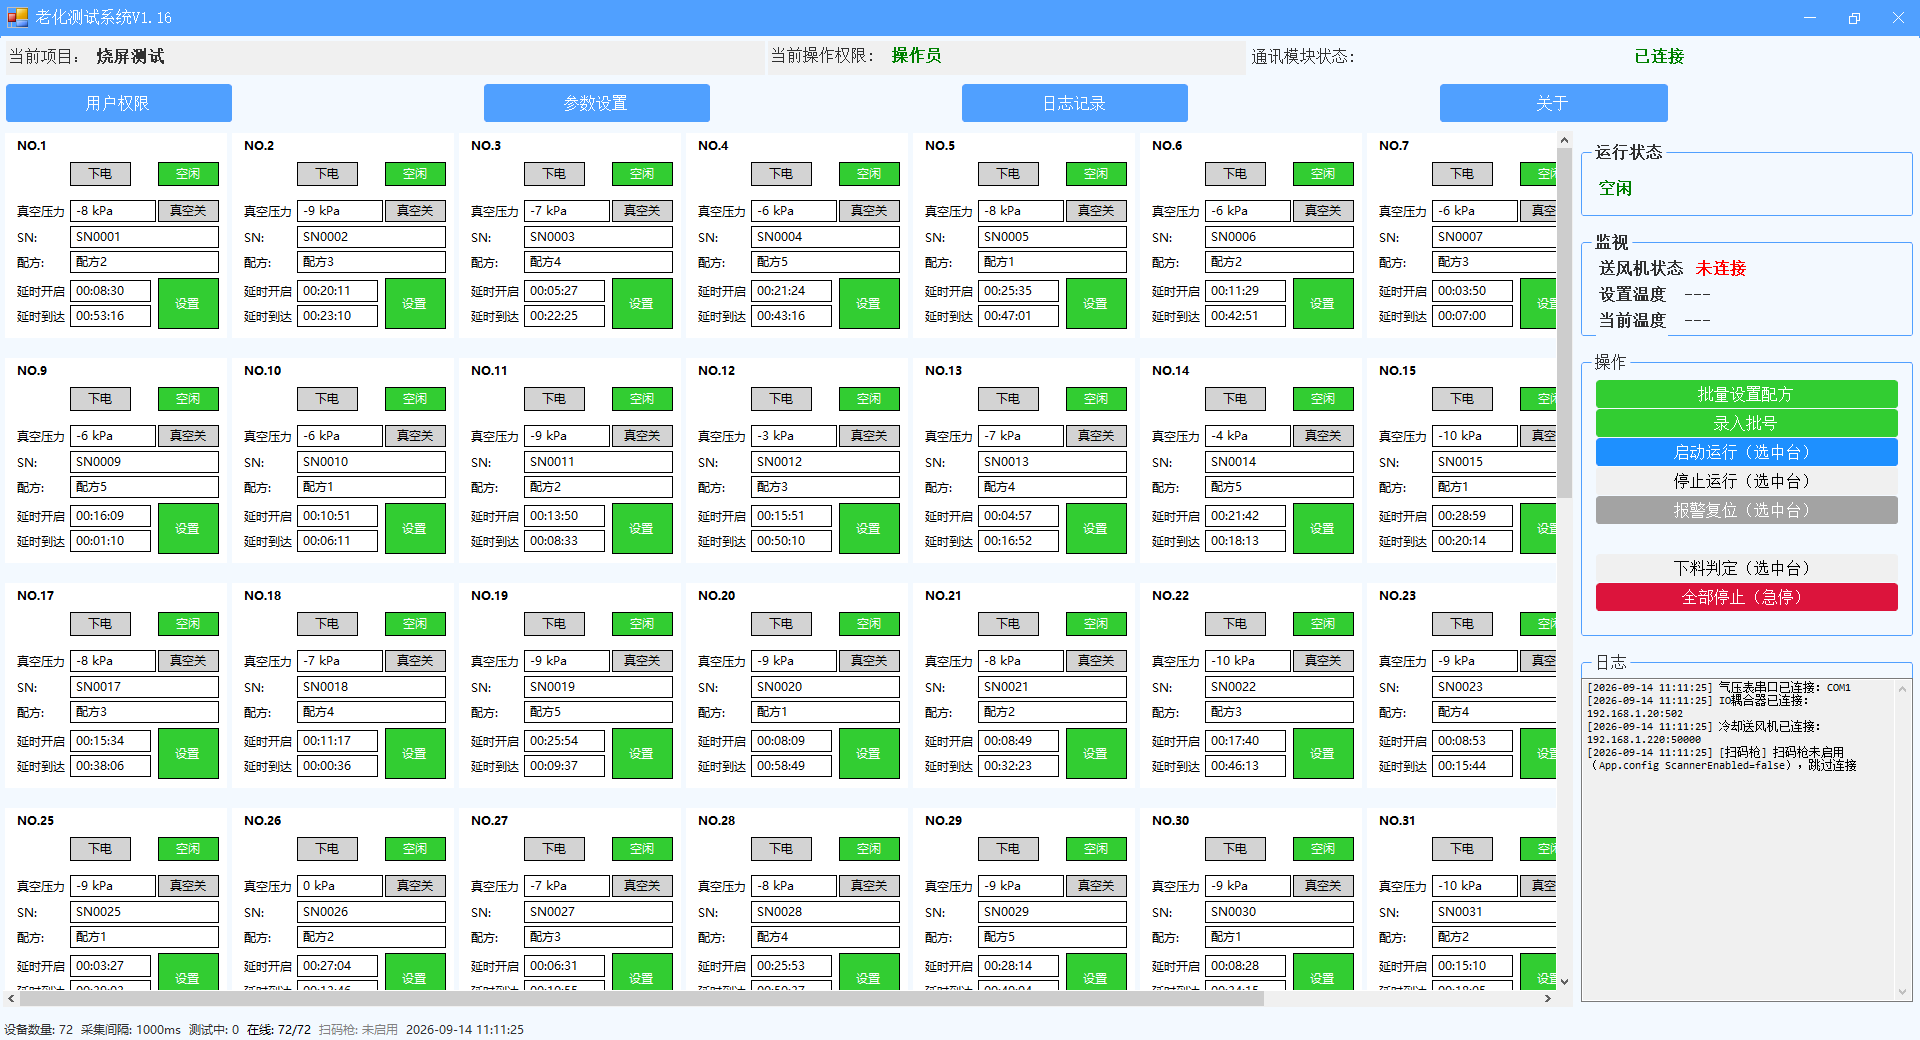
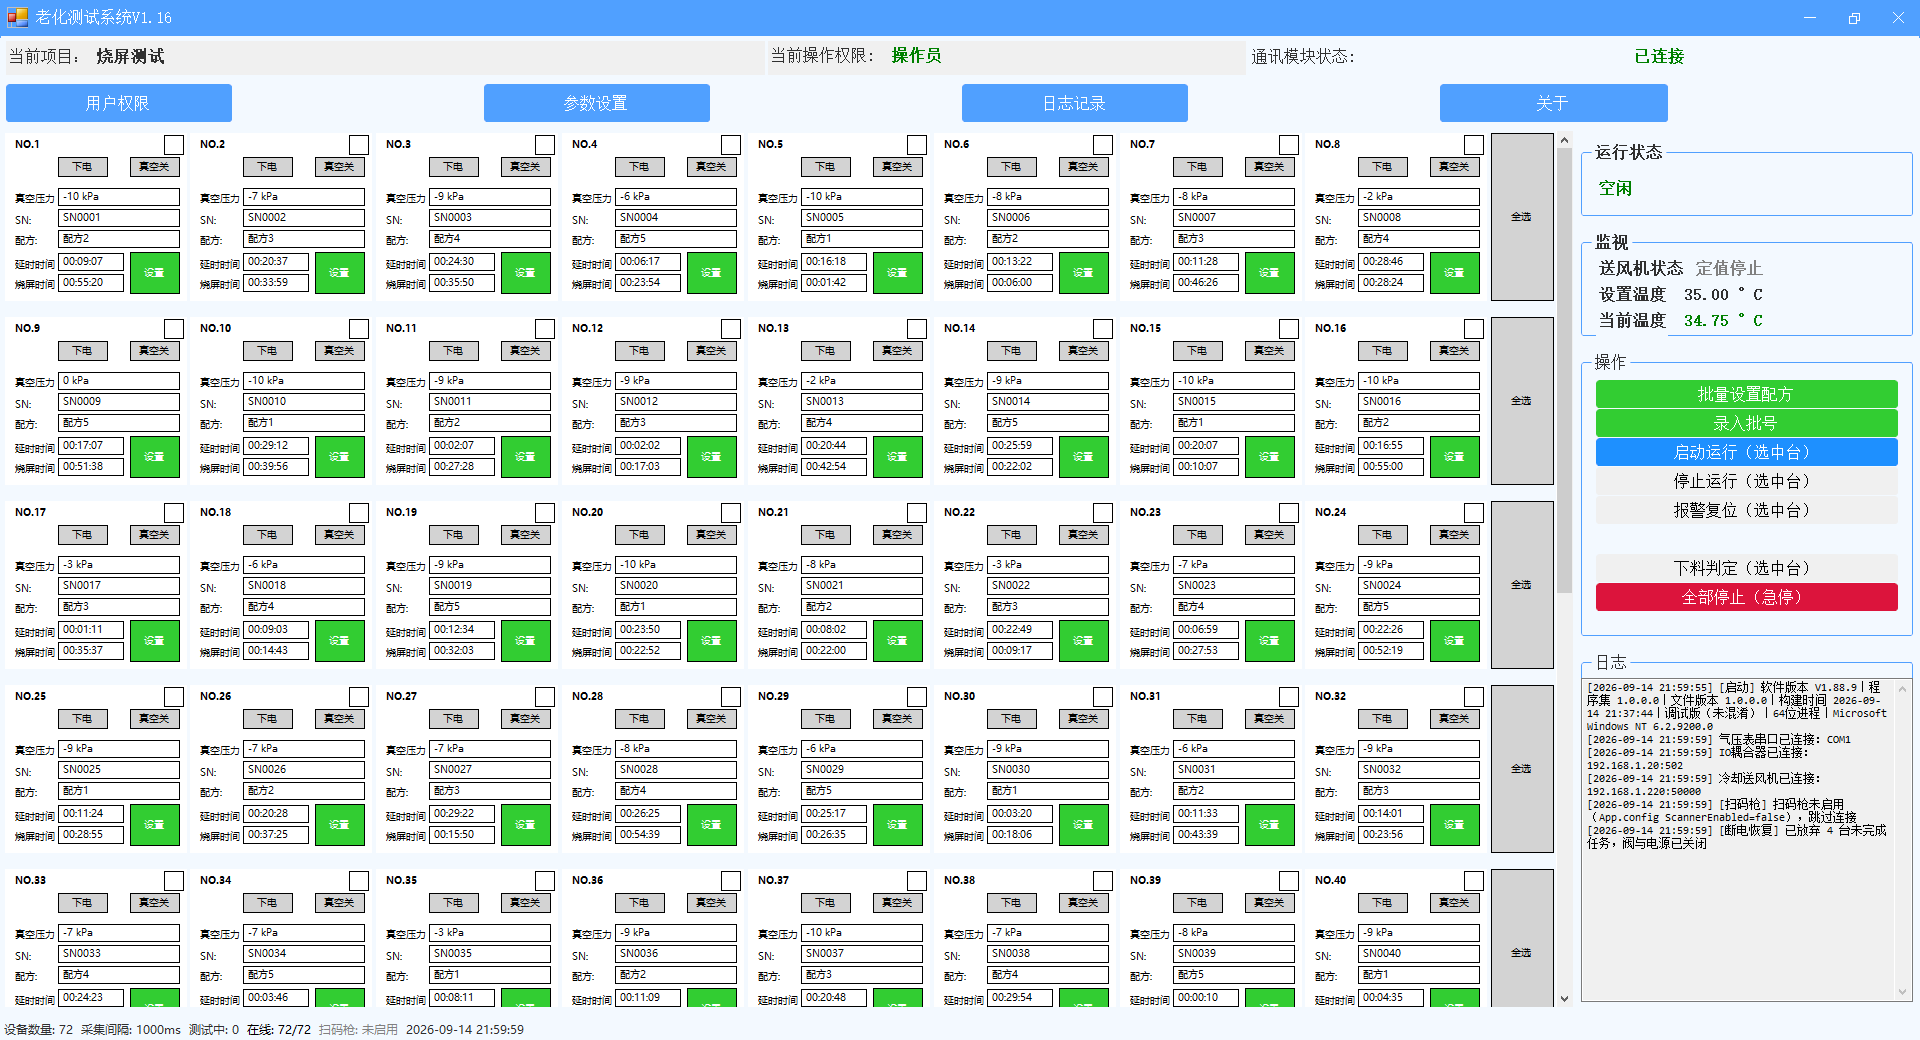
V1.88.16培训文档同步：三份手册配新截图+PDF重转+水印对齐版本号

Changed region(s): [[0.0, 0.1231, 1.0, 1.0], [0.875, 0.2462, 0.9062, 0.3077], [0.0, 0.1231, 0.0312, 0.1538]]

diff --git a/tools/DocShot/DocShot.cs b/tools/DocShot/DocShot.cs
@@ -278,6 +278,7 @@ static class DocShot
             Track(f); // 看门狗名单：自己打开的不算意外弹窗
             Thread.Sleep(sleepMs);
             Application.DoEvents();
+            Track(f); // 睡后重登记一次：SunnyUI 主题/字体可能 RecreateHandle，老句柄失登记会被看门狗当弹窗关掉（07 号坑）
             string path = Path.Combine(outDir, name);
             for (int attempt = 0; attempt < 2; attempt++)
             {
@@ -319,6 +320,23 @@ static class DocShot
         try { nud.Value = Math.Max(nud.Minimum, Math.Min(nud.Maximum, v)); }
         catch (Exception ex) { Console.WriteLine("  nud " + field + " set fail: " + ex.Message); }
     }
+    // V1.88.13补：配方名由输入框改下拉（UIComboBox DropDownList），harness不能再Fill文本。
+    // 选中第0项即触发回填（延时/烧屏/温度/负压自动填好），截图显示下拉框+选中值。
+    static void SelectCombo(Form f, string field, int index)
+    {
+        var fi = f.GetType().GetField(field, BindingFlags.NonPublic | BindingFlags.Instance);
+        if (fi == null) { Console.WriteLine("  no field " + field + " on " + f.GetType().Name); return; }
+        var c = fi.GetValue(f) as Control;
+        if (c == null) { Console.WriteLine("  field " + field + " not a Control"); return; }
+        try
+        {
+            var prop = c.GetType().GetProperty("SelectedIndex");
+            if (prop == null) { Console.WriteLine("  combo " + field + " no SelectedIndex"); return; }
+            prop.SetValue(c, index, null);
+            Application.DoEvents();
+        }
+        catch (Exception ex) { Console.WriteLine("  combo " + field + " set fail: " + ex.Message); }
+    }
 
     static void ScanBarcode(Form f, string code)
     {
@@ -349,9 +367,9 @@ static class DocShot
             cfg.UseMockCommunication = true;
             cfg.CollectInterval = 1000;
             var recipes = new List<RecipeConfig> {
-                new RecipeConfig { Id=1, Name="烧屏8小时", DelayTime=TimeSpan.FromSeconds(30), StartTime=TimeSpan.FromHours(8), LimitTemperature=60, NegativePressure=-5.0m, CreateTime=DateTime.Now },
-                new RecipeConfig { Id=2, Name="老化24小时", DelayTime=TimeSpan.FromSeconds(60), StartTime=TimeSpan.FromHours(24), LimitTemperature=65, NegativePressure=-6.0m, CreateTime=DateTime.Now },
-                new RecipeConfig { Id=3, Name="试产验证2小时", DelayTime=TimeSpan.FromSeconds(10), StartTime=TimeSpan.FromHours(2), LimitTemperature=55, NegativePressure=-4.0m, CreateTime=DateTime.Now }
+                new RecipeConfig { Id=1, Name="烧屏8小时", DelayTime=TimeSpan.FromSeconds(30), BurnInTime=TimeSpan.FromHours(8), LimitTemperature=60, NegativePressure=-5.0m, CreateTime=DateTime.Now },
+                new RecipeConfig { Id=2, Name="老化24小时", DelayTime=TimeSpan.FromSeconds(60), BurnInTime=TimeSpan.FromHours(24), LimitTemperature=65, NegativePressure=-6.0m, CreateTime=DateTime.Now },
+                new RecipeConfig { Id=3, Name="试产验证2小时", DelayTime=TimeSpan.FromSeconds(10), BurnInTime=TimeSpan.FromHours(2), LimitTemperature=55, NegativePressure=-4.0m, CreateTime=DateTime.Now }
             };
             var dm = new DeviceManager(cfg, new SteadyReader(), null, null); // 定压注入，确定性状态
             string lot = "LOT2026091401";
@@ -469,9 +487,9 @@ static class DocShot
             var batch = new BatchRecipeForm(dm, recipes, new List<int> { 1, 2, 5, 6 });
             batch.StartPosition = FormStartPosition.CenterScreen;
             batch.Show(); Application.DoEvents(); Thread.Sleep(400);
-            Fill(batch, "txtRecipeName", "烧屏8小时");
+            SelectCombo(batch, "cmbRecipeName", 0); // V1.88.13起下拉单选，选中触发回填
             FillNum(batch, "nudDelayHours", 0); FillNum(batch, "nudDelayMinutes", 0); FillNum(batch, "nudDelaySeconds", 30);
-            FillNum(batch, "nudStartHours", 8); FillNum(batch, "nudStartMinutes", 0); FillNum(batch, "nudStartSeconds", 0);
+            FillNum(batch, "nudBurnInHours", 8); FillNum(batch, "nudBurnInMinutes", 0); FillNum(batch, "nudBurnInSeconds", 0);
             Fill(batch, "txtLimitTemp", "60");
             Fill(batch, "txtNegativePressure", "-5");
             Application.DoEvents(); Thread.Sleep(300);
@@ -501,6 +519,12 @@ static class DocShot
                 if (!HasContent(bmp)) failCount++;
             }
             Untrack(common);
+
+            // V1.88.13补拍：此前harness缺这三张（01主界面/13授权/18连线页），靠手工存量图。
+            // 01用真MainForm（后台连接失败不影响布局截图）；13/18用无参构造直拍。
+            Shot(new SoftActivation(), "13-activation.png", false, 600);
+            Shot(new IoRemapVisualForm(), "18-ioremap.png", true, 800);
+            Shot(new MainForm(), "01-main.png", true, 3000);
 
             try { dm.Stop(); } catch { } try { dm.Dispose(); } catch { }
             StopWatchdog();

diff --git a/AgingTestSystem/Services/BuildWatermark.cs b/AgingTestSystem/Services/BuildWatermark.cs
@@ -39,7 +39,7 @@ namespace AgingTestSystem.Services
         /// <summary>
         /// 对外版本号，跟着 CHANGELOG 走。发版时同步改这里和 CHANGELOG 顶部小节标题。
         /// </summary>
-        public const string ReleaseLabel = "V1.88.9";
+        public const string ReleaseLabel = "V1.88.16";
 
         /// <summary>
         /// 是否混淆版。调试期恒 false；以后打混淆包时改成 true 再编译，

diff --git a/docs/内部培训文档.md b/docs/内部培训文档.md
@@ -31,7 +31,8 @@
 
 ![主界面](images/01-main.png)
 
-- 工位面板区：72 格自绘，状态以文字为准（空闲/抽真空/老化计时/已完成·待取料/故障），布局坐标外部化在 `PanelLayout.json`（现场微调不用重编译）。
+- 工位面板区：72 格自绘，状态看面板底色（白＝空闲/浅黄＝测试中/浅粉＝故障/淡钢蓝＝完成待取），再看上电块（绿＝上电）与真空块（绿＝吸住、红＝没吸住、灰＝阀没开）；工作状态文字块已删（V1.88.16，底色＋上下电/真空块已够，省位给压力框加长到148）。布局坐标外部化在 `PanelLayout.json`（现场微调不用重编译）。
+- 选中交互：点右上角选中框或点面板空白即切换选中（单击点选，长按已删）；点面板间缝隙不命中（防触摸误触）。自适应：`AutoFit` 默认开，按中间区宽度顶满缩放（zoom 并进 Scaled＋字体等比下限 6pt），列数 8×9 不动，高度超出纵向滑动，横向条禁用。
 - 右侧操作区 7 个按钮：批量设置配方 / 录入批号 / 启动运行 / 停止运行 / 报警复位 / 下料判定 / 全部停止（急停）。语义见操作员手册，不复述。
 - 顶部菜单 4 个：用户权限 / 参数设置 / 日志记录 / 关于。
 - 底部状态栏：在线数、采集间隔、测试中台数、扫码枪状态。全部离线标红。
@@ -55,6 +56,7 @@
 
 - 左边清单、右边编辑，添加/更新/删除自动落盘（无"保存"按钮）。
 - 字段：延时时间（时:分:秒）、烧屏时间（时:分:秒）、极限温度、负压阈值、显示模式（仅记录）。
+- 配方名只许下拉选（V1.88.13）：批量/工位两窗 `UIComboBox DropDownList`，选项＝配方库名，选中回填参数（工位窗 `_fillingRecipeCombo` 守卫防程序回填误触发）；工位窗脏值追加显示＋保存拦停，选回正常值顺手清脏；比较口径双边 Trim＋忽略大小写；禁引回输入框/自动检索 Provider（手输错名静默回退全局＝串配方）。
 - 负压阈值填 0 ＝ 永远"到位"，真空保护形同虚设；老配方升级后显示 0 的必须人工复核。
 
 ### 4.3 工艺策略：流程驾驶舱（只讲用法，原理见第六节）
@@ -317,7 +319,7 @@
 - 代码已是"要发的那一份"（工作区干净最好；实在有未提交改动，脚本会拦，加 `-AllowDirty` 硬发，
   归档里会记下当时改了哪些文件，责任可追溯）。
 - 确认版本号：`AgingTestSystem/Services/BuildWatermark.cs` 第一行 `ReleaseLabel`，
-  必须和 `CHANGELOG.md` 顶部小节同值（如 V1.88.9），对不上先对上。
+  必须和 `CHANGELOG.md` 顶部小节同值（如 V1.88.16），对不上先对上。
 - 混淆器：全公司统一用免费开源的 Obfuscar（`Obfuscar.GlobalTool`，命令叫 `obfuscar.console`），
   新电脑跑一次就行（要联网）：
   `dotnet tool install -g Obfuscar.GlobalTool`

diff --git a/docs/车间操作员使用说明.md b/docs/车间操作员使用说明.md
@@ -8,7 +8,7 @@
 | :--- | :---: | :--- |
 | 真空负压表（每台看真空够不够） | 72 台 | 主界面 72 个小格子，一格就是一台 |
 | 真空电磁阀（吸住产品） | 72 路 | 软件自动开关，你不用管 |
-| 载台电源（给产品通电老化） | 72 路 | 真空吸稳了才自动通电 |
+| 载台电源（给产品通电老化） | 72 路 | 延时>0：吸稳＋延时到才自动通电；延时=0：阀和电同时开、直接计时 |
 | 冷却送风机（给产品吹风降温） | 1 台 | 有一台在测就自动转，全停才停 |
 | 扫码枪（扫产品条码） | 1 把 | 扫一下，号码自动填进格子 |
 
@@ -41,12 +41,14 @@
 
 打开软件你看到的就是上面这张图，分四个区：
 
-- **中间大格子区（72 格）**：一格 = 一个工位。每格显示工位号、真空压力、产品条码（SN）、配方名、状态。**认状态只看格子里的文字**，下面第五节有对照表。
+- **中间大格子区（72 格）**：一格 = 一个工位。每格显示工位号、真空压力、产品条码（SN）、配方名、上电/真空块。**认状态看格子底色**，下面第五节有对照表（白＝空闲/浅黄＝测试中/浅粉＝故障/淡钢蓝＝完成待取）。
 - **右边"操作"区**：你每天点的按钮全在这里：批量设置配方、录入批号、启动运行、停止运行、报警复位、下料判定、全部停止（急停）。
 - **顶部菜单栏**：用户权限 / 参数设置 / 日志记录 / 关于。操作员常用的只有【用户权限】（换班登录）和【日志记录】（查历史）。
 - **底部状态栏**：看"在线 72/72"。如果大面积变红、显示离线很多，**先查网线和设备电源，不要一上来就重启电脑**，下面有排障表。
 
 右边还有一块"监视"区：显示送风机连上没有、温度多少，平时看一眼就行。
+
+- **自适应显示**：中间格子会按窗口宽度自动放大顶满（字跟着变大变小，最小不小于能看清）；高度看不全就上下滑动看，列数固定 8×9 不动。窗口拉宽/最大化会自动跟，不用管。
 
 ---
 
@@ -105,7 +107,7 @@
 
 ### 第 ④ 步：选中工位，点【启动运行】
 
-- 先选中要测的工位（点选中框或点格子空白处，可多选；每行还有"全选"按钮）。
+- 先选中要测的工位（点选中框或点格子空白处，可多选；点格子之间的缝隙不选中；每行还有"全选"按钮）。
 - 点右边蓝色 **【启动运行】**，弹出确认框，确认人数/配方没错就点确定。
 - 点完启动，软件**先只开真空阀吸产品，这时候不通电**，是安全的（延时填 0 的配方是阀和电同时开、直接计时，启动前和技术员确认好）。
 

diff --git a/README.md b/README.md
@@ -243,6 +243,9 @@ Models（BarometerData / FanData / IoStatus / DeviceConfig / RecipeConfig / Stat
 
 | 版本 | 要点 |
 | :--- | :--- |
+| V1.88.16 | 工位面板工作状态文字块整个删除（5 态文字纯冗余，状态只看面板底色＋上电/下电块＋真空三色块；真空块搬去第一行当锚定基准，压力值框加长到宽 148；1831 断言全绿） |
+| V1.88.15 | 拖 Splitter 改宽后纵向滑块拉不到底修（Resize 里同步布局被静默忽略致滚动范围卡旧值；UpdateCanvasSize 显式设 AutoScrollMinSize 值语义锁范围＋BeginInvoke 事后校正钳位置）＋面板间隙点选误翻选修（行列整除把缝隙算进上一格；TryHitPanel 加内容 bounds 检查，缝隙不命中；1826 断言全绿，滑块走独立 harness 验证） |
+| V1.88.14 | 延时=0 启动阀电同开直接计时（客户新口径：延时是"断电等吸附"的等待，0＝不要等；真空确认宽限照常保留；Ceiling 存秒防 0.5s 误判）＋选中框常显后单击点选（长按整套删除，拖超 10px 走滚动不选中）＋主界面按宽自适应顶满纵向滑动（列数 8×9 不动，AutoFit 默认开，横向条禁用）＋全完成停风机补回归锁＋停失败补停缺口（1821 断言全绿） |
 | V1.88.13 | 与客户工艺核对三项：配方名两窗（批量/工位）由输入框改 UIComboBox 下拉单选禁手输（选项=配方库名，选中回填参数；工位窗库中已无的脏值追加显示+保存拦停；删 RecipeAutoCompleteProvider 整文件）——手输错名静默回退全局配置=串配方的根拔掉；重复启动不断电不关阀只重置计时（现状确认，电/真空保持、产品不掉）；抽真空→上电间隔=真空建立与配方延时取较晚者（延时0约1秒，保持现状）；单工位按 deviceId 下标隔离无串台（1783 断言全绿） |
 | V1.87 | 授权改与 HJVision 同源：删 RSA 全套（无老证包袱），CPU+MD5 三件套激活（30天/永久），同一套《获取激活码》工具通用；`MainSetting.ini [RunHash]` 双键 + 主窗 1 小时 Timer（新设备/过期弹框+置灰用户权限，不阻断生产；1722 断言全绿） |
 | V1.86.1 | 授权窗眼睛显隐复查修复 9 项：初始掩码态代码收敛/Message空加固/空机器码复制导出明示拦截/换肤底色跟随/具名退订+补Dispose/字体移出Designer/眼睛小尺寸守卫；回归收紧右缘精确+最前断言+日志脱敏（1712 断言全绿） |

diff --git a/docs/客户技术工艺使用说明.md b/docs/客户技术工艺使用说明.md
@@ -39,13 +39,16 @@
 - 右边"操作"区：批量设置配方 / 录入批号 / 启动运行 / 停止运行 / 报警复位 / 下料判定 / 全部停止（急停）。
 - 顶部菜单：用户权限 / 参数设置 / 日志记录 / 关于；底部状态栏看"在线 72/72"（大面积离线先查线缆电源）；右边监视区看送风机状态与温湿度。
 - 生产标准流程 8 步：录入批号 → 扫码绑定工位↔SN → 设配方 → 选中工位启动 → 巡检 → 到时自动断电 → 取料 → 复位（蓝/红屏必须点【报警复位】才回空闲，停止键清不掉）。
-- 面板选中：点右上角选中框或点空白处即选中，可多选；面板上的【设置】按钮智能分流——只选 1 台弹单台设置窗，选 ≥2 台弹批量设置窗。
+- 面板选中：点右上角选中框或点空白处即选中，可多选；点缝隙（格子之间的空条）不选中；面板上的【设置】按钮智能分流——只选 1 台弹单台设置窗，选 ≥2 台弹批量设置窗。
+- 自适应显示：72 格按中间区宽度自动缩放顶满（站尽可能大、无右侧空白，字等比缩放）；高度超出部分上下滑动看；横向滚动条已禁用，只支持纵向滑动。
 
 ![录入批号窗口](images/03-inputlot.png)
 
 ![扫码绑定窗口](images/04-idbinding.png)
 
 ![批量设置配方窗口](images/06-batchrecipe.png)
+
+- 配方名只能从下拉选已有配方（禁手输，防打错串配方）；选中后延时/烧屏/温度/负压自动回填；选不了就先去【配方管理】建。工位窗回填名若在库中已无（配方被删），会追加显示并在保存时拦停，明示重选。
 
 ![单台工位设置窗口](images/07-stationsettings.png)
 
@@ -282,7 +285,7 @@
 
 ## 十一、掌握要点自查（培训完逐条过）
 
-1. 说出 72 格状态文字含义，红/蓝屏用什么按钮清。
+1. 说出 72 格底色含义（白/浅黄/浅粉/淡钢蓝），红/蓝屏用什么按钮清。
 2. 独立走一遍换型清单：切项目 → 建配方 → 首件 2~4 台 → 全开。
 3. 独立定一个配方：延时/时长/阈值各是什么、红线是什么。
 4. 查一次历史记录并导出 xlsx；找到当天 log 文件。
